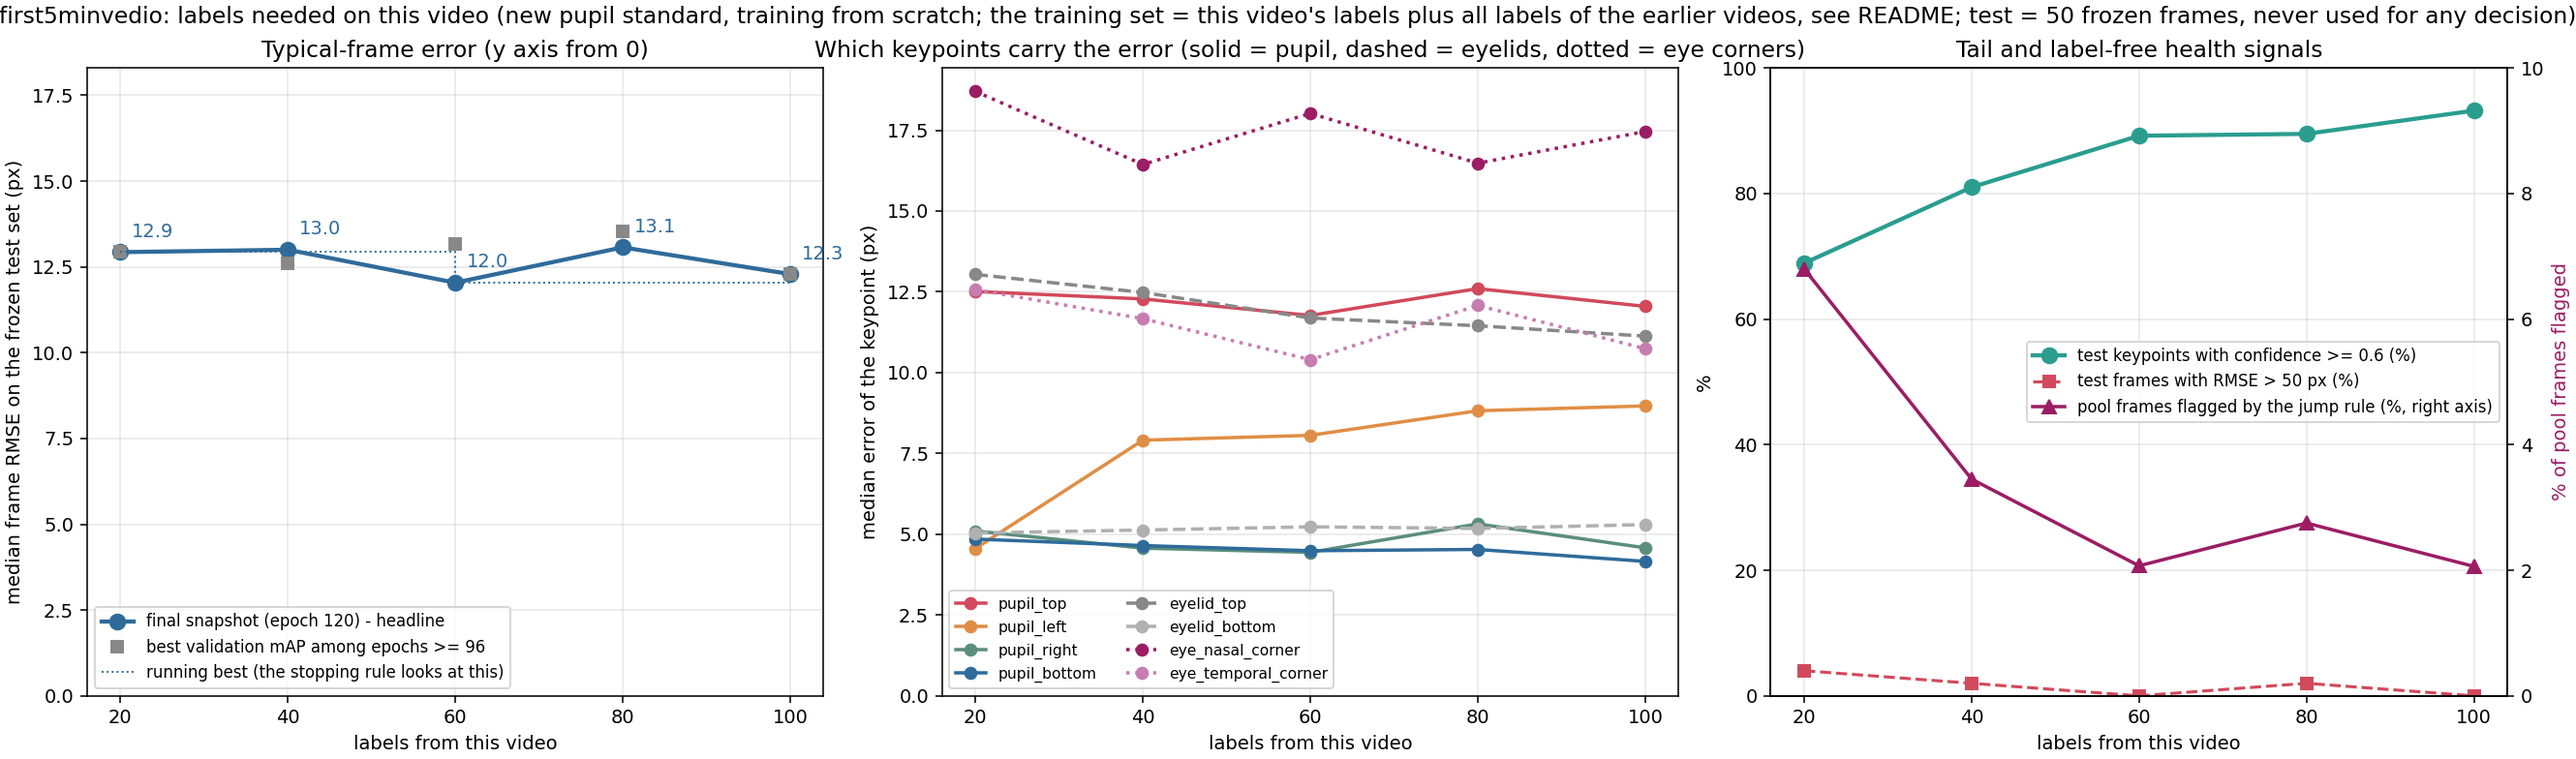
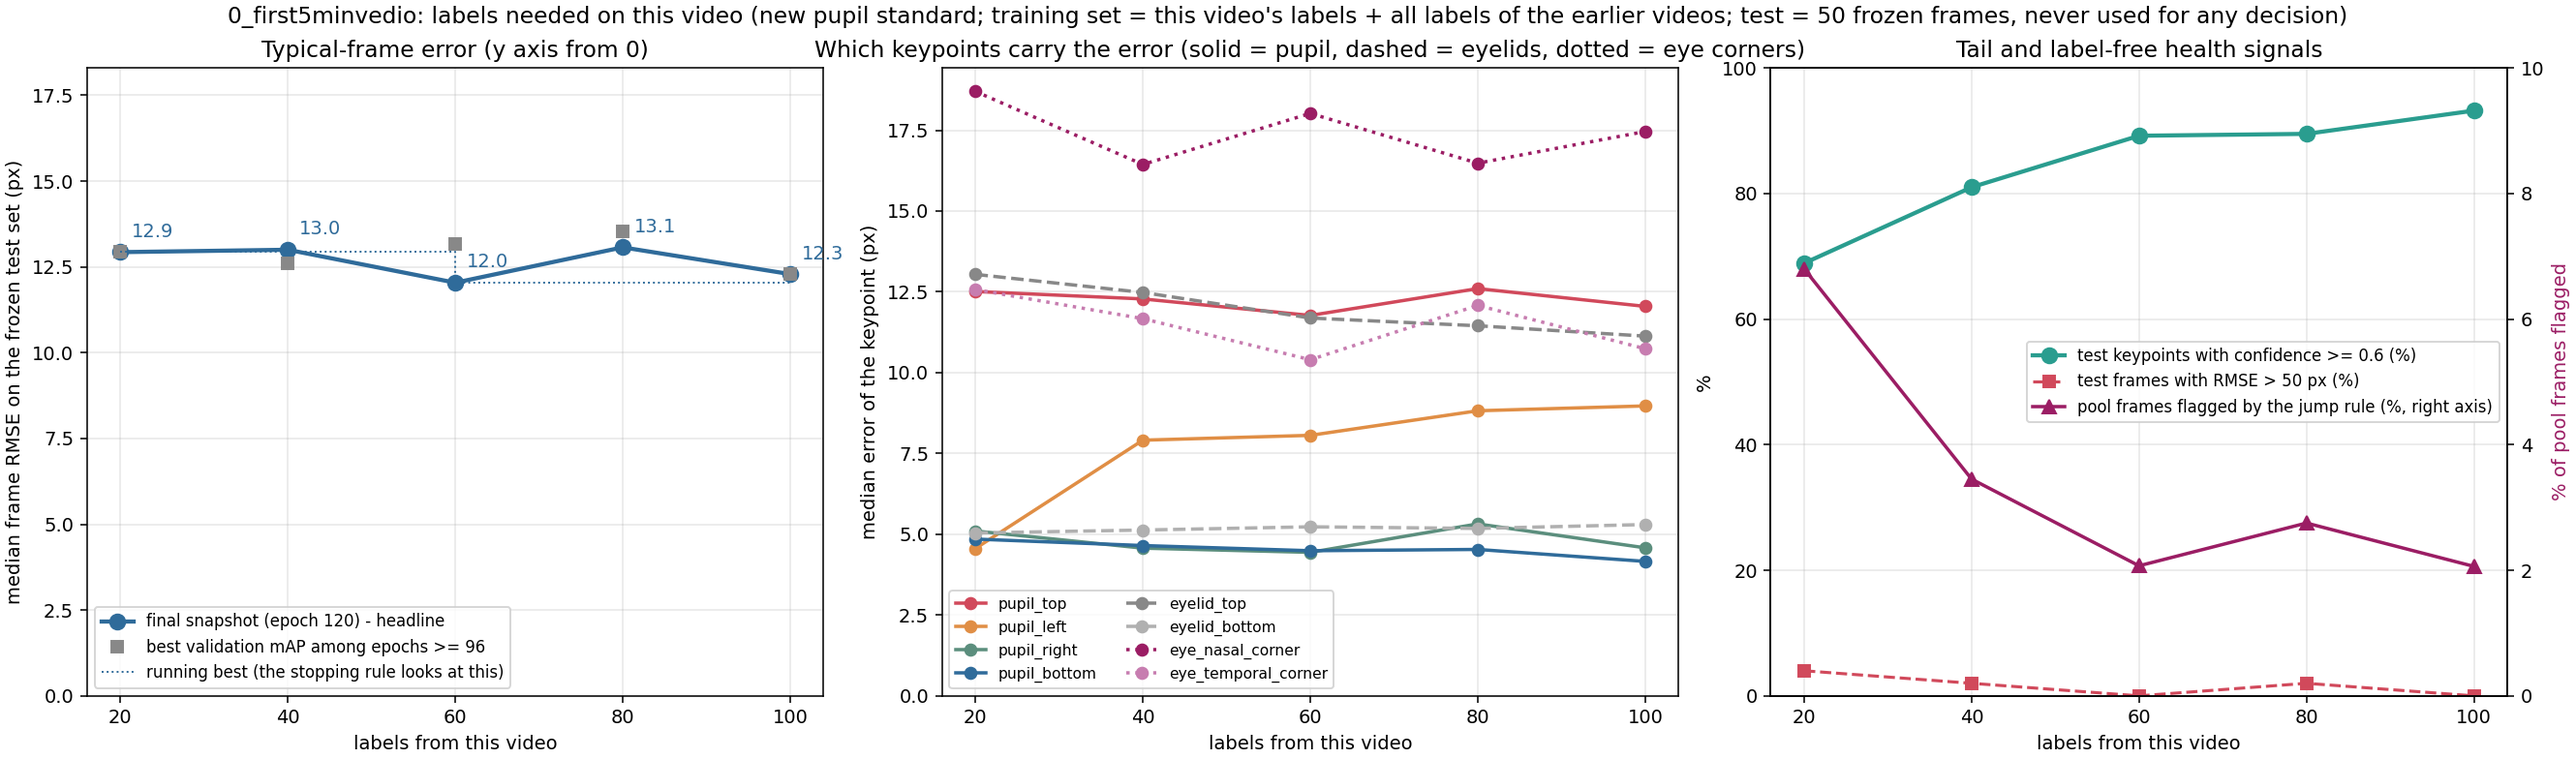
Scale curves: show the 5 / 10-label subset results of the fewer-labels study on each video's curve

Changed region(s): [[0.0, 0.0, 1.0, 0.0306]]

diff --git a/v2_new_pupil_top_video_scaling/scripts/plot_scale_curve.py b/v2_new_pupil_top_video_scaling/scripts/plot_scale_curve.py
@@ -33,7 +33,16 @@ for (_, r), v in zip(head.iterrows(), yv):
     ax.annotate(f"{r['median_frame_rmse_px']:.1f}{off}", (r[x], v), textcoords="offset points", xytext=(6, 8 if not off else -14), color=BLUE)
 best = head["median_frame_rmse_px"].cummin().clip(upper=ytop * 0.97)
 ax.step(head[x], best, where="post", color=BLUE, lw=1, ls=":", label="running best (the stopping rule looks at this)")
-ax.set_ylim(0, ytop); ax.set_xticks(head[x])
+# fewer-labels study (2026-09-27/28): 5 / 10 labels as two model-free subsets of batch01 (labels x..._final_subNNa/b)
+sub = d[d["label"].str.contains(r"_final_sub\\d+[ab]$")].sort_values(x)
+if len(sub):
+    for tag, mk, fc in (("a", "D", "#E08E45"), ("b", "s", "white")):
+        ss = sub[sub["label"].str.endswith(tag)]
+        ax.plot(ss[x], ss["median_frame_rmse_px"].clip(upper=ytop * 0.97), mk, color="#E08E45", mfc=fc, ms=7, ls="none",
+                label=f"5 / 10 labels: subset {tag} of batch01 (fewer-labels study)")
+        for _, r in ss.iterrows():
+            ax.annotate(f"{r['median_frame_rmse_px']:.1f}", (r[x], min(r["median_frame_rmse_px"], ytop * 0.97)), textcoords="offset points", xytext=(5, -11), color="#E08E45", fontsize=8)
+ax.set_ylim(0, ytop); ax.set_xticks(sorted(set(head[x]) | set(sub[x])))
 ax.set_xlabel("labels from this video"); ax.set_ylabel("median frame RMSE on the frozen test set (px)")
 ax.set_title("Typical-frame error (y axis from 0)"); ax.grid(alpha=0.3); ax.legend(fontsize=8.5, loc="lower left")
 ax = axes[1]
